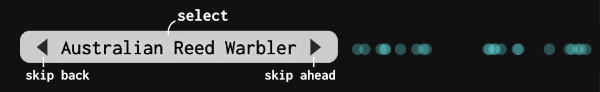
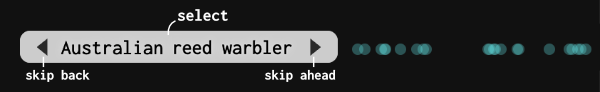
Species in sentence case throughout

Changed region(s): [[0.27, 0.4348, 0.51, 0.6087]]

diff --git a/src/components/AudioAnnotations.vue b/src/components/AudioAnnotations.vue
@@ -61,7 +61,7 @@
 					});
 
 	  			let speciesData = sp.map(s => {
-	  				return { commonName: s.split("_")[1], 
+	  				return { commonName: this.sentenceCase(s.split("_")[1]), 
 	  						scientificName: s.split("_")[0],
 	  						routeTag: s.split("_")[1].toLowerCase().replaceAll(" ","-").replaceAll("'",""),
 	  						fullSpecies:s, 
@@ -117,6 +117,11 @@
 			jumpPrev(speciesRow){
 				if (!speciesRow.prevDetection) return
 				this.$emit('jumpAudio',{time:speciesRow.prevDetection.startTime})
+			},
+
+			sentenceCase(string){
+				let l = string.toLowerCase();
+				return l.charAt(0).toUpperCase() + l.slice(1);
 			}
 	  	},
 

diff --git a/src/components/SpeciesInfoGrid.vue b/src/components/SpeciesInfoGrid.vue
@@ -1,10 +1,10 @@
 
 <template>
 
-	<div class="wrapper" :class="{'mobileshow':mobileshow}">
+	<div class="wrapper" :class="{'mobileshow':mobileshow}" @click="mobileshow = !mobileshow" >
 		
 		<div id="speciesInfo" >
-			<div class="mobile-toggle" @click="mobileshow = !mobileshow" :class="{'expanded':mobileshow}"></div>
+			<div class="mobile-toggle" :class="{'expanded':mobileshow}"></div>
 		
 			<div class="head">
 				<h3 >{{speciesInfo.commonName}}</h3>
@@ -83,6 +83,7 @@
 		left:0;
 		z-index: 5;
 		width:100%;
+		cursor: pointer;
 
 	}
 
